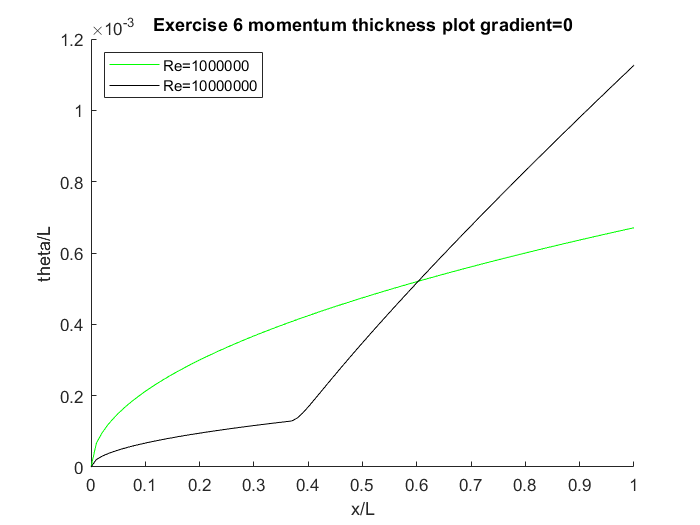
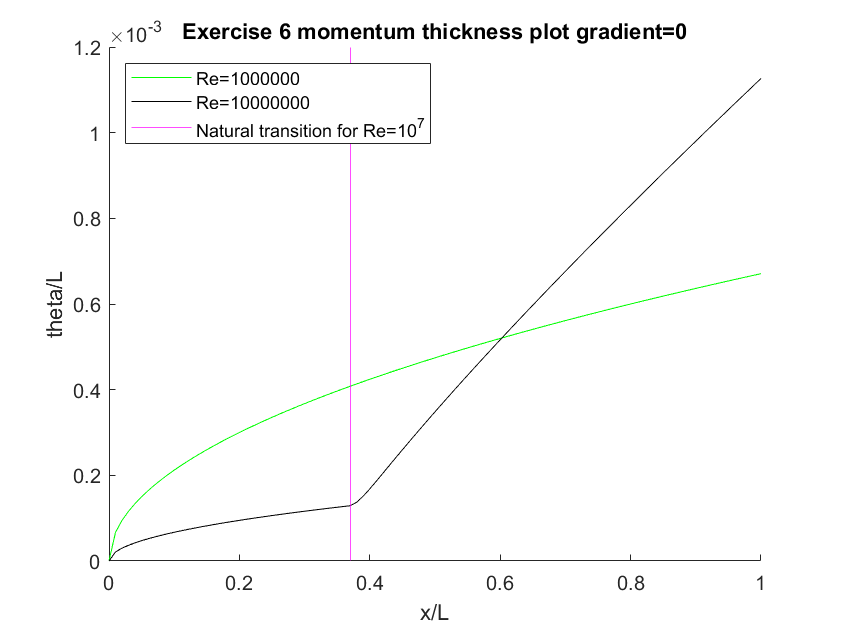
Finished debugging exercise 6

diff --git a/Boundary Layer/Exercise6.m b/Boundary Layer/Exercise6.m
@@ -1,14 +1,17 @@
 clc
+clear global
 clear all
+close
+
 global Re duedx ue0
-Re_list=[1e6 1e7];
-stylelist = ['g','k.','r--'];
-for j=1:2
+Re_list=[1e4 1e5 1e6];
+stylelist = ['g','k','r--'];
+for j=1:3
     n = 101;
     x = linspace(0,1,n)';
     ue = ones(n,1);
     
-    duedx = 0;
+    duedx = -0.25;
     Re = Re_list(j);
     % First dimension is different x/L values
     theta = zeros(n,1);
@@ -17,15 +20,21 @@ for j=1:2
     % Local Reynolds number based on momentum thickness
     Re_theta = zeros(n,1);
     delta = zeros(n,1);
-    itr = 0;
-    its = 0;
 
     % Location of natural transition
-    int = zeros(3,1);
-    transition_Re = zeros(3,1);
+    int = 0;
+    transition_Re = 0;
     % Location of laminar separation
-    ils = zeros(3,1);
-    separation_Re = zeros(3,1);
+    ils = 0;
+    separation_Re = 0;
+
+    % Initialise turbulent trackers (step i)
+    % Location of turbulent reattachment
+    itr = 0;
+    turbulent_reattachment_Re = 0;
+    % Location of turbulent separation
+    its = 0;
+    turbulent_separation_Re = 0;
 
     % Add constant offset of 1 to ue since ue/U=1 when x/L=0
     ue = ue+x*duedx;
@@ -44,10 +53,13 @@ for j=1:2
 
     % Calculate He
     He = arrayfun(@laminar_He,H);
-    He(1) = 1.57258;
-    % Find transition and separation point
 
-    separation_index = zeros(3,1);
+    % Set arbitrary value for first point of He (step i)
+    He(1) = 1.57258;
+
+    %=================================================
+
+    % Find transition and separation point
     laminar = true;
     for i=1:n
         % Transition
@@ -58,6 +70,8 @@ for j=1:2
             break
         % Separation
         elseif m(i) >= 0.09
+            % If laminar separation detected, He fixed at its separation
+            % value (step ii)
             He(i:end)=1.51509;
             delta = He.*theta;
             laminar = false;
@@ -66,7 +80,12 @@ for j=1:2
             break  
         end
     end
+    
+    %=================================================================
 
+    % Turbulent section!
+    % Set index at which the ODE solver following laminar separation should follow
+    % on. Depends on if separation or transition occurs first.
     if(int == 0 & ils ~= 0)
     % Laminar separation
         i = ils+1;
@@ -80,44 +99,60 @@ for j=1:2
         % Fully laminar - set i such that while loop does not run
         i = 102;
     end
+
+    % Provide initial values for turbulent calculations (step ii)
     theta_sep = theta(i-1);
+    % delta = He*theta (step iii)
     delta_sep = 1.51509*theta_sep;
     thick0 = [theta_sep, delta_sep];
     ue0 = ue(i-1);
+    
+    % Calculations for non-laminar regions: while loop proceeds as long as
+    % its = 0 and position index < max value
     while(its == 0 & i <= 101)
         [delx thickhist] = ode45(@thickdash, [0,x(i)-x(i-1)], thick0);
         thick0 = thickhist(end,:);
         He_i = thick0(2)/thick0(1);
-        m_i = -Re*thickhist(1)*duedx;
+        m_i = -Re*(thick0(1))^2*duedx;
         % Fill in theta array for plotting later
         theta(i) = thick0(1);
         % Fill in He array for plotting later
         He(i) = He_i;
-        % Fill in m array for reference
-        m(i) = m_i;
-        % Test for laminar separation followed by re-attachment
-        if(ils ~= 0 & He_i >= 1.58)
-            itr = i;
-        end
-        % Test for turbulent separation
-        if(int ~= 0 & m >= 0.09)
-            its = i;
-        end
-        i = i+1;
-        ue0 = ue(i-1);
-    end
 
+        % Test for turbulent re-attachment
+        % Condition: laminar separation has already occurred, and He > 1.58
+        % If turbulent re-attachment has already occurred, then do not test
+        % again
+        if (ils ~= 0 & itr == 0 & He_i >= 1.58)
+            itr = i;
+            turbulent_reattachment_Re = Re_theta(i);
+        end
+
+        % Test for turbulent separation regardless of if turbulent
+        % re-attachment has occurred
+        if (He_i <= 1.46)
+            its = i;
+            turbulent_separation_Re = Re_theta(i);
+            % H unchanged from separation value
+            H(its:end) = thwaites_lookup(m(its));
+            % Populate He with constant values (separated)
+            He(its:end) = He_i
+        end
+        ue0 = ue(i);
+        i = i+1;
+    end
+    
+    % Calculate theta after turbulent separation
     if its ~= 0
-        i = its;
+        k = its;
         % Calculation for after turbulent separation
-        while i <= 101
-            theta_a = theta(i);
-            uea =  ue(i);
-            ueb = ue(i+1);
-            H = thwaites_lookup(m(i));
-            theta_b = theta_a*(uea/ueb)^(H+2);
-            theta(i+1) = theta_b;
-            i = i+1;
+        while k <= 100
+            theta_a = theta(k);
+            uea =  ue(k);
+            ueb = ue(k+1);
+            theta_b = theta_a*(uea/ueb)^(H(k)+2);
+            theta(k+1) = theta_b;
+            k = k+1;
         end
     end
 
@@ -128,19 +163,33 @@ for j=1:2
 %     title('Exercise 6 momentum thickness plot gradient=0')
 %     ylabel('theta/L')
     
-    disp(He);
-
     hold on
     plot(x, He, stylelist(j),'Displayname',strcat('Re=',num2str(Re)));
-    legend('Location','northwest')
     xlabel('x/L')
     title('Exercise 6 He plot gradient=0')
     ylabel('He')
-
+    legend('Location','northwest')
+    
     if int ~= 0
-        disp(['Natural transition at x/L value ' num2str(x(int)) ' with Re_theta ' num2str(transition_Re)])
+        disp(['Natural transition at x/L value ' num2str(x(int)) ' with Re_theta ' num2str(transition_Re) ' and ReL=' num2str(Re)])
     end
     if ils ~= 0
-        disp(['Laminar separation at x/L value ' num2str(x(ils)) ' with Re_theta ' num2str(separation_Re)])
+        disp(['Laminar separation at x/L value ' num2str(x(ils)) ' with Re_theta ' num2str(separation_Re) ' and ReL=' num2str(Re)])
     end
+    if itr ~= 0
+        disp(['Turbulent reattachment at x/L value ' num2str(x(itr)) ' with Re_theta' num2str(turbulent_separation_Re) ' and ReL=' num2str(Re)])
+    end
+    if its ~= 0
+        disp(['Turbulent separation at x/L value ' num2str(x(its)) ' with Re_theta' num2str(turbulent_reattachment_Re) ' and ReL=' num2str(Re)]) 
+    end
+    disp('-------------------------------------------------------------------------------------------------------------------------------------')
 end
+
+% xline(0.49, 'c','Displayname','Natural transition for Re=10^6')
+% xline(0.5, 'Color','#A2142F','Displayname','Laminar separation for Re=10^4')
+% xline(0.59, 'Color','#EDB120','Displayname','Turbulent re-attachment for Re=10^5')
+% xline(0.82, 'm','Displayname','Turbulent separation for Re=10^4')
+
+% xline(0.37, 'm','Displayname','Natural transition for Re=10^7')
+% For reference: turbulent separation at x/L=1 for Re=10^5 from duedx =
+% -0.382
